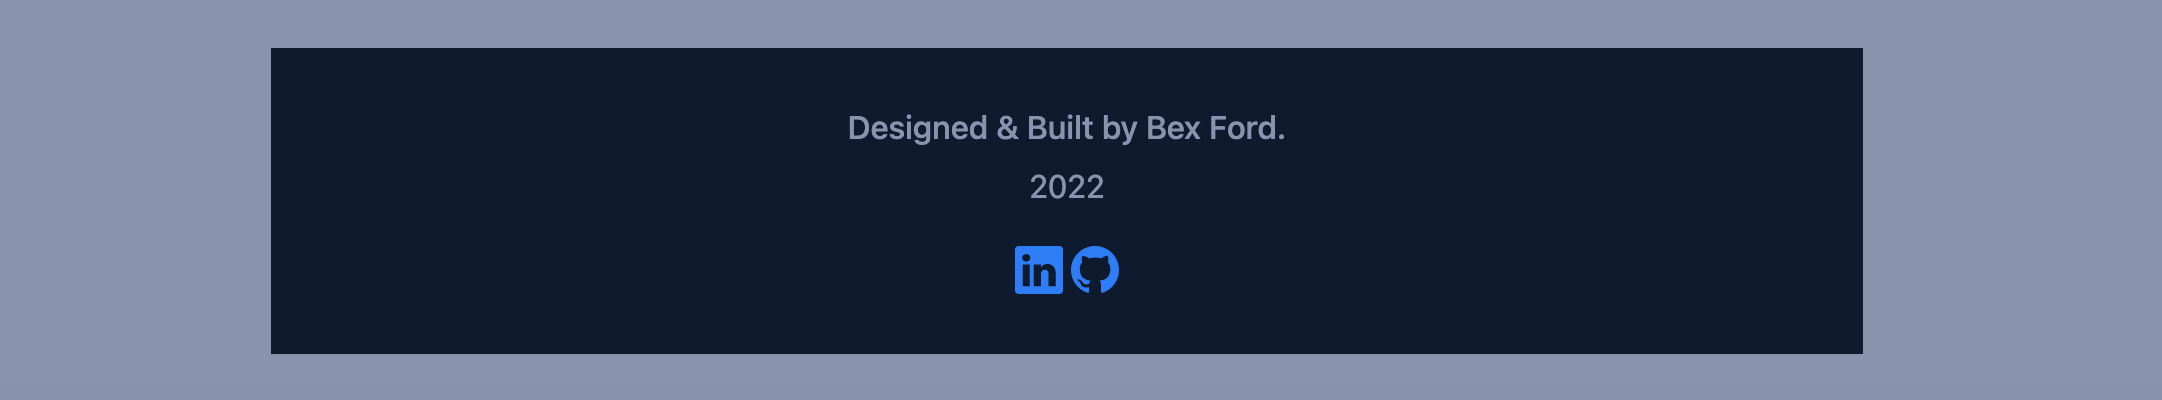
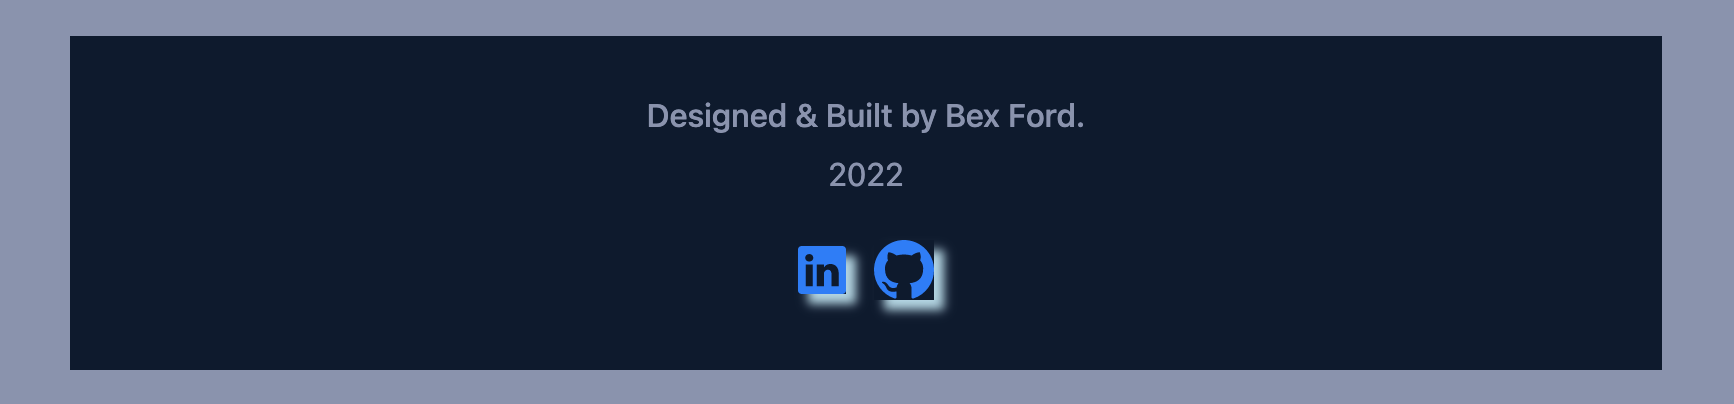
final commit

diff --git a/index.html b/index.html
@@ -17,9 +17,13 @@
     <body>
     <!--Hero section-->
     <div class="jumbotron jumbotron-fluid">
-            <!--Navigation Bar-->
-    <nav class="navbar navbar-expand-lg">
+    <!--Navigation Bar-->
+    <div class="m-4">
+     <nav class="navbar navbar-expand-lg">
         <div class="navbar-collapse" id="navbarNav" style="justify-content: flex-end;">
+                <button type="button" class="navbar-toggler" data-bs-toggle="collapse" data-bs-target="#navbarCollapse">
+                        <span class="navbar-toggler-icon"></span>
+                    </button>
            <ul class="navbar-nav">
            <li class="nav-item active">
              <a class="nav-link" href="#about"
@@ -37,7 +41,8 @@
             </li>
          </ul>
        </div>
-     </nav>
+     </nav> 
+     </div>
      <!--End of Navigation Bar-->
       <div class="d-flex flex-column p-5">
         <div>
@@ -67,7 +72,7 @@
                   ><strong><u>Module-1</u></strong></a
                 > 
               </p> 
-        </p>
+            </p>
         </div>
       </div>
       <div class="card col-sm-12 col-md-4 col-lg-4">
@@ -184,7 +189,7 @@
             href="https://github.com/bex-ford"
             target="_blank"
           >
-          <svg xmlns="http://www.w3.org/2000/svg" width="24" height="24" fill="currentColor" class="bi bi-github" viewBox="0 0 16 16">
+          <svg xmlns="http://www.w3.org/2000/svg" width="30" height="30" fill="currentColor" class="bi bi-github" viewBox="0 0 16 16">
             <path d="M8 0C3.58 0 0 3.58 0 8c0 3.54 2.29 6.53 5.47 7.59.4.07.55-.17.55-.38 0-.19-.01-.82-.01-1.49-2.01.37-2.53-.49-2.69-.94-.09-.23-.48-.94-.82-1.13-.28-.15-.68-.52-.01-.53.63-.01 1.08.58 1.23.82.72 1.21 1.87.87 2.33.66.07-.52.28-.87.51-1.07-1.78-.2-3.64-.89-3.64-3.95 0-.87.31-1.59.82-2.15-.08-.2-.36-1.02.08-2.12 0 0 .67-.21 2.2.82.64-.18 1.32-.27 2-.27.68 0 1.36.09 2 .27 1.53-1.04 2.2-.82 2.2-.82.44 1.1.16 1.92.08 2.12.51.56.82 1.27.82 2.15 0 3.07-1.87 3.75-3.65 3.95.29.25.54.73.54 1.48 0 1.07-.01 1.93-.01 2.2 0 .21.15.46.55.38A8.012 8.012 0 0 0 16 8c0-4.42-3.58-8-8-8z"/>
           </svg>
         </a

diff --git a/css/style.css b/css/style.css
@@ -32,16 +32,10 @@ body {
     background-color: #0a192f;
 }
 
-.navbar-brand {
-   color: #8892b0;
- 
-}
-
 .nav-link {
     color: #8892b0;
     margin-right: 20px;
-    float:right
-    justify-content:flex-end;
+    float:right;
 
 }
 
@@ -72,6 +66,10 @@ body {
    
 }
 
+a:hover {
+    color:lightblue;
+}
+
 footer {
     background-color: #0a192f;
     color:#8892b0;
@@ -79,7 +77,12 @@ footer {
     text-align: center;
 }
 
-.skills ul{
+footer svg {
+    box-shadow: 5px 5px 5px lightblue;
+    margin: 5px; 
+}
+
+.skills ul {
     list-style-type: none;
 }
 

diff --git a/README.md b/README.md
@@ -16,13 +16,13 @@ I made sure that by adding the navigation links to the top right side of the pag
 
 - I built this project because when i complete this bootcamp course it will be a platform to present the work that i have done for future job prospects. 
 
-- When vising the page the user will be able visit the link (CV). When clicked a PDF of my CV will load.
+- When vising the page the user will be able visit the link (CV). When clicked a PDF of my CV will load. The user will also be able to click the links and it will take them directly to that specific section.
 
-- The image below is a grid layout using Bootstrap using (card).
+- The image below is a grid layout using Bootstrap (card).
 
 ![Links to grid](css/images/grid.png)
 
-The image below shows the footer element of the page where i have added icons of both Gitub and Linkedin when these icons are clicked it will open a separate page to both links.
+The image below shows the footer element of the page where i have added icons of both Gitub and Linkedin. When these icons are clicked it will open a separate page to both links. I have also created a hover effect using CSS.
 
 ![Links to github and Linkedin](css/images/footer.png)
 
